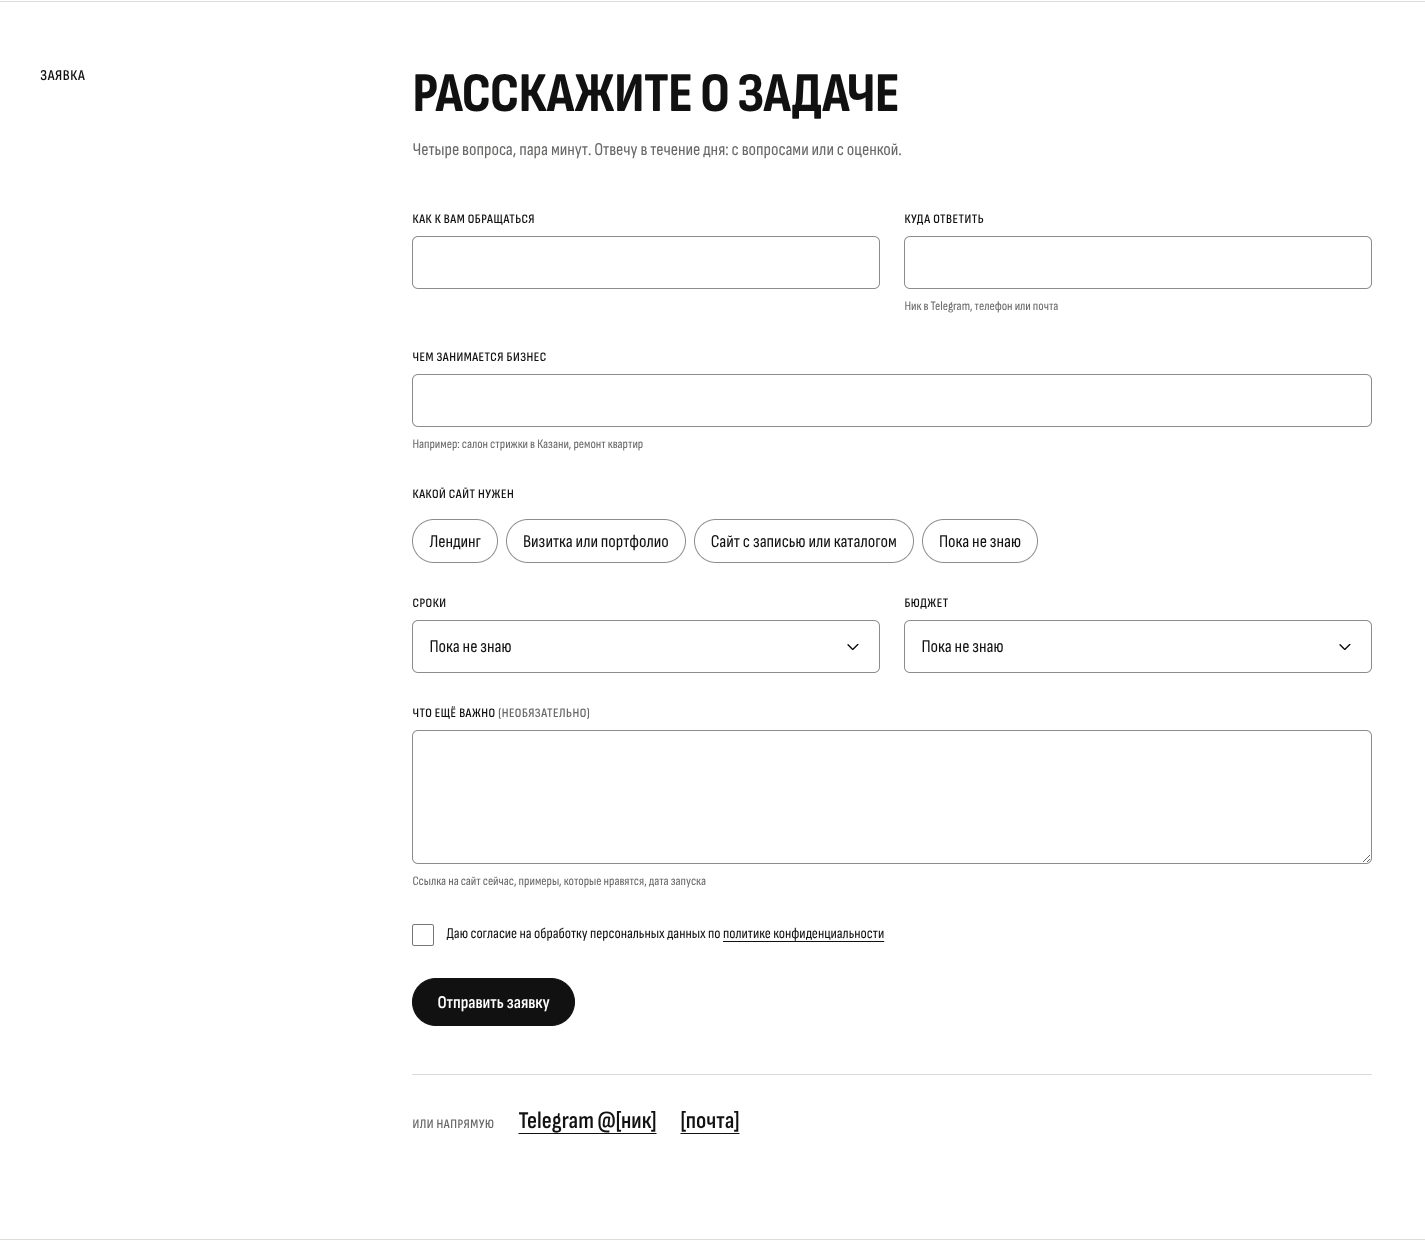
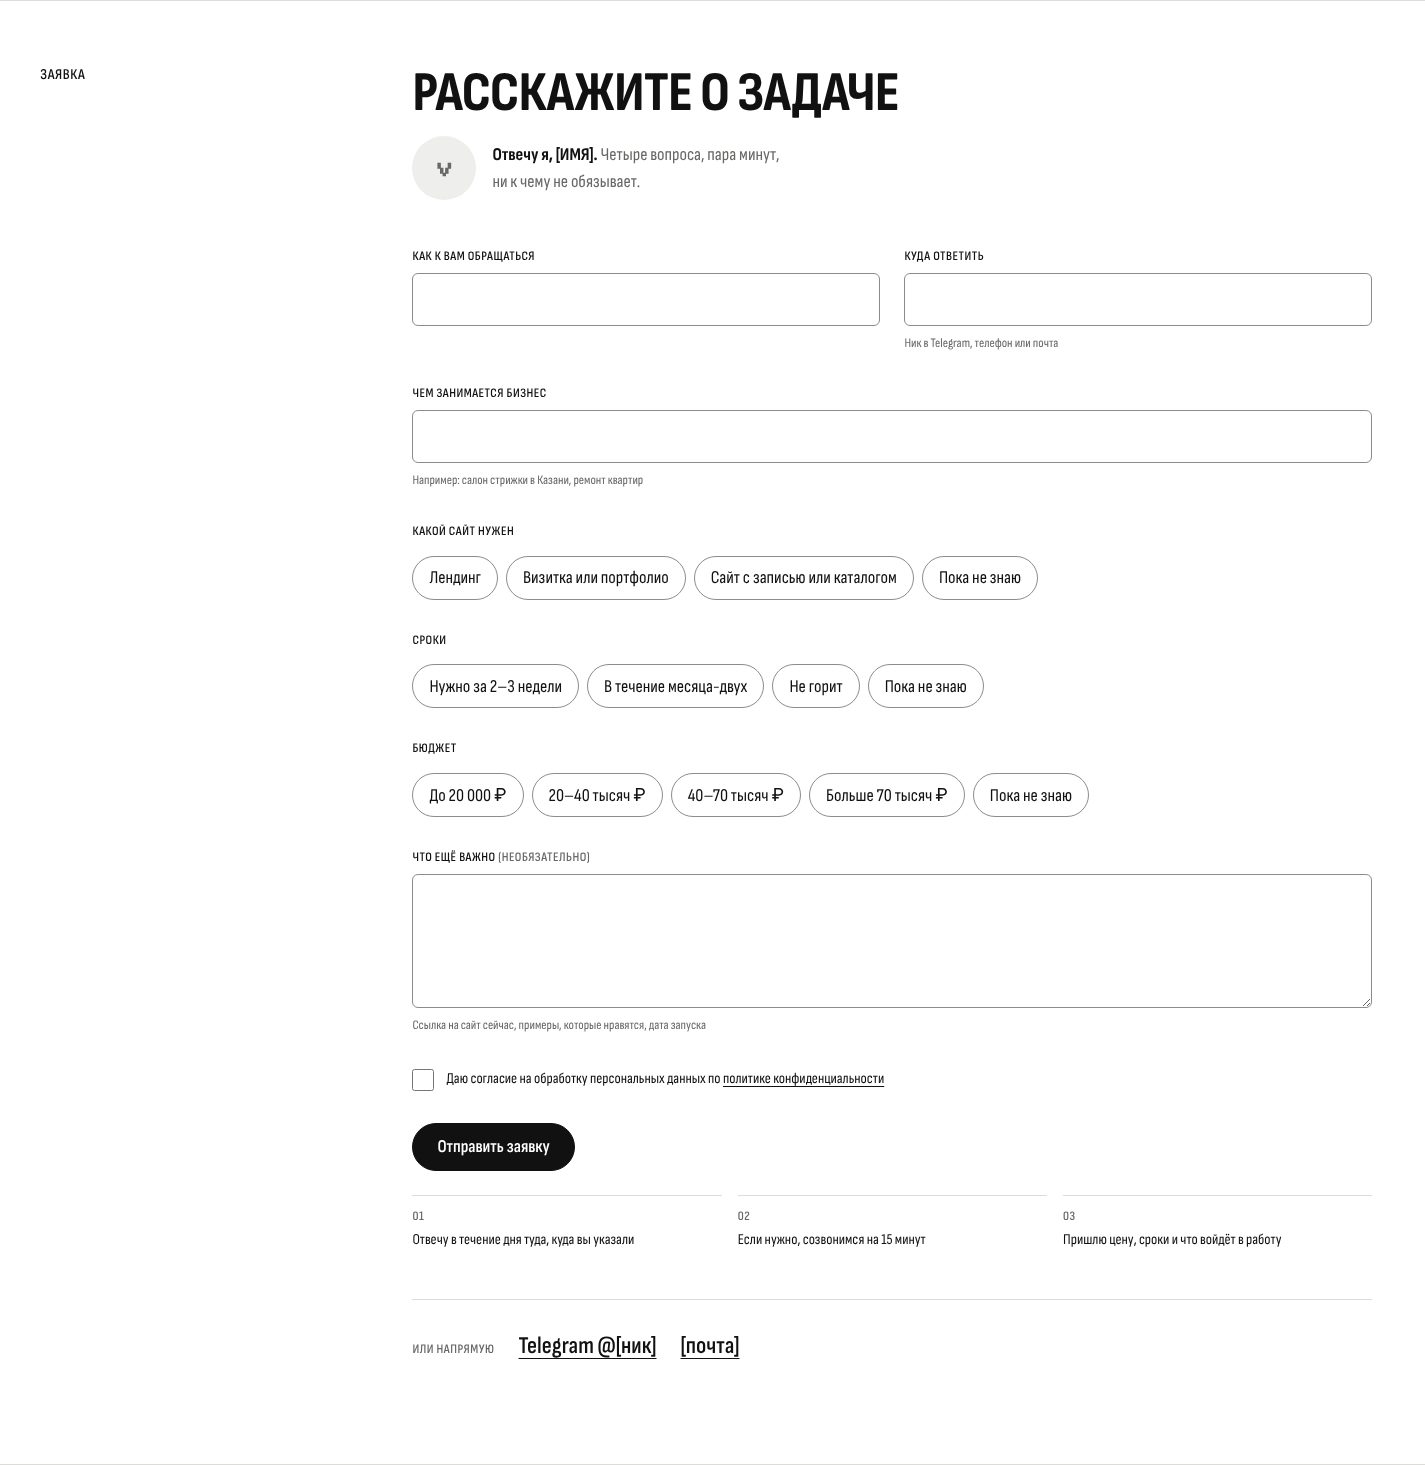
Портфолио: что будет после заявки, «Подходит, если…», гарантия, реквизиты
- Под формой три шага после заявки, рядом фото и «Отвечу я, [имя]».
- Сроки и бюджет в форме выбираются бирками, оба необязательные.
- В ценах «Подходит, если…», обычный диапазон рядом с «от»,
  строка гарантии, оплаты и хостинга.
- Два вопроса про цену в FAQ, гарантия в ответе про оплату.
- Подписи к работам в каталоге и срок на странице работы.
- ФИО, статус и ИНН в подвале; данные владельца в одном файле src/site.ts.
- Автопроверка понимает радиокнопки и закрытые <details>.

Claude-Session: https://claude.ai/code/session_01EqjaGEMsxfvaRW2MYHcQtJ

diff --git a/src/site.ts b/src/site.ts
@@ -1,0 +1,11 @@
+// Данные о владельце сайта: заполнить один раз здесь, они попадут в «Обо мне», заявку,
+// подвал и политику конфиденциальности. Фото: положить файл src/assets/me.jpg (квадратное, от 400 px),
+// пока его нет, у формы стоит заглушка со знаком.
+export const owner = {
+  name: "[ИМЯ]", // как подписываться: «Отвечу я, Иван»
+  fullName: "[ФИО]", // для подвала и политики конфиденциальности
+  status: "самозанятый", // или «ИП»
+  inn: "[ИНН]",
+  telegram: "[ник]", // без @
+  email: "[почта]",
+};

diff --git a/src/content.config.ts b/src/content.config.ts
@@ -18,6 +18,8 @@ const cases = defineCollection({
       live: z.boolean().default(true),
       order: z.number().default(10),
       summary: z.string(),
+      tagline: z.string().optional(), // подпись под карточкой: одна фраза с характером
+      term: z.string().optional(), // срок и повод: «два дня», «за неделю до открытия»
       desktop: z.array(image()).min(1),
       phone: z.array(image()).min(1),
     }),

diff --git a/README.md b/README.md
@@ -20,7 +20,7 @@
 
    Скрипт снимает по три экрана на компьютере (1440×900) и телефоне (390×844) и, если работы ещё нет, создаёт `index.md` с полями в `[скобках]`. Повторный запуск обновляет только скриншоты.
 
-2. Заполнить в `index.md` название, нишу, город, одну фразу о сайте и тексты «Задача» и «Решение». Поле `status: concept` ставит бирку «Концепт» (учебная работа), `client` — настоящий заказ. `order` задаёт порядок, `live: false` прячет ссылку, пока превью нет.
+2. Заполнить в `index.md` название, нишу, город, одну фразу о сайте, подпись для каталога (`tagline`, одна строка с лёгкой иронией), срок (`term`, например «Две недели») и тексты «Задача» и «Решение». Поле `status: concept` ставит бирку «Концепт» (учебная работа), `client` — настоящий заказ. `order` задаёт порядок, `live: false` прячет ссылку, пока превью нет.
 
 3. Открыть pull request. После слияния работа появится на сайте.
 
@@ -40,7 +40,9 @@ npm run preview   # посмотреть сборку
 - `src/pages/index.astro` — главная, `src/pages/cases/[slug].astro` — страница работы, `src/pages/404.astro`.
 - `src/components/Ring.astro` и `src/scripts/ring.ts` — кольцо: панели, поворот, перетаскивание, клавиатура.
 - `src/components/CaseCard.astro` — карточка работы на серой плашке.
-- `src/components/Prices.astro` — цены «от» и сроки, `src/components/Faq.astro` — вопросы и ответы.
+- `src/site.ts` — имя, ФИО, статус, ИНН, Telegram и почта владельца: отсюда они попадают в «Обо мне», заявку, подвал и политику.
+- `src/components/Me.astro` — фото у формы: берёт `src/assets/me.jpg`, пока файла нет, показывает круг со знаком.
+- `src/components/Prices.astro` — цены «от», обычный диапазон, «Подходит, если…», гарантия и условия оплаты; `src/components/Faq.astro` — вопросы и ответы.
 - `src/components/RequestForm.astro` и `src/scripts/form.ts` — заявка: проверка полей, отправка, сообщения об ошибках.
 - `src/pages/privacy.astro` — политика конфиденциальности, на неё ссылается согласие в форме.
 - `src/styles/global.css` — токены: цвета, шрифты, отступы, движение.
@@ -82,8 +84,9 @@ npm run check:release -- --site ../../dist   # перед публикацией
 
 ## Что заполнить перед публикацией
 
-- Имя в «Обо мне» (`[ИМЯ]`) в `src/pages/index.astro`, Telegram (`[ник]`) и почту (`[почта]`) в `src/components/RequestForm.astro`.
+- Имя, ФИО, ИНН, Telegram и почту в `src/site.ts` (один файл на весь сайт).
+- Фото: квадратный файл от 400 px в `src/assets/me.jpg`.
 - Номер формы Formspree (`YOUR_FORM_ID`), см. «Заявки».
-- Пометки `[ЗАПОЛНИТЬ…]` и `[почта]` в `src/pages/privacy.astro`: кто оператор данных, срок хранения, куда уходят заявки.
-- Цены и сроки в `src/components/Prices.astro`: сейчас это цены для первых пяти проектов; когда наберутся кейсы и отзывы, поднять цифры и убрать строку «Первые пять проектов».
+- Пометки `[ЗАПОЛНИТЬ…]` в `src/pages/privacy.astro`: дата, срок хранения, куда уходят заявки, есть ли Метрика.
+- Цены и сроки в `src/components/Prices.astro`: сейчас это цены для первых пяти проектов; когда наберутся кейсы и отзывы, поднять цифры, диапазоны «обычно …» и убрать строку «Первые пять проектов». Гарантия «верну предоплату, если прототип главной не понравится» написана в ценах и в вопросе про оплату: если условия поменяются, править в обоих местах.
 - Знак `verver` в шапке и подвале, если сайт будет под другим именем.

diff --git a/src/content/cases/kare/index.md b/src/content/cases/kare/index.md
@@ -8,6 +8,8 @@ url: "https://verver-vadya.github.io/site-kare/"
 live: false # false, если превью ещё не опубликовано
 order: 2 # меньше — выше в списке
 summary: "Салон в стиле модного журнала: крупное название за головой модели, прайс как журнальная колонка, запись онлайн."
+tagline: "Обложка модного журнала, только вместо подписки запись к мастеру."
+term: "Один день, прототип главной"
 desktop:
   - ./desktop-1.jpg
   - ./desktop-2.jpg

diff --git a/src/content/cases/tikhiy-zal/index.md b/src/content/cases/tikhiy-zal/index.md
@@ -8,6 +8,8 @@ url: "https://verver-vadya.github.io/site-tikhiy-zal/"
 live: true # false, если превью ещё не опубликовано
 order: 1 # меньше — выше в списке
 summary: "Афиша пятничных концертов на сорок мест: нотный стан, инструменты и программа вечера в одной странице."
+tagline: "Сорок мест, пятница, Шуберт. Сайт старается не шуметь."
+term: "Два дня, концепт"
 desktop:
   - ./desktop-1.jpg
   - ./desktop-2.jpg
